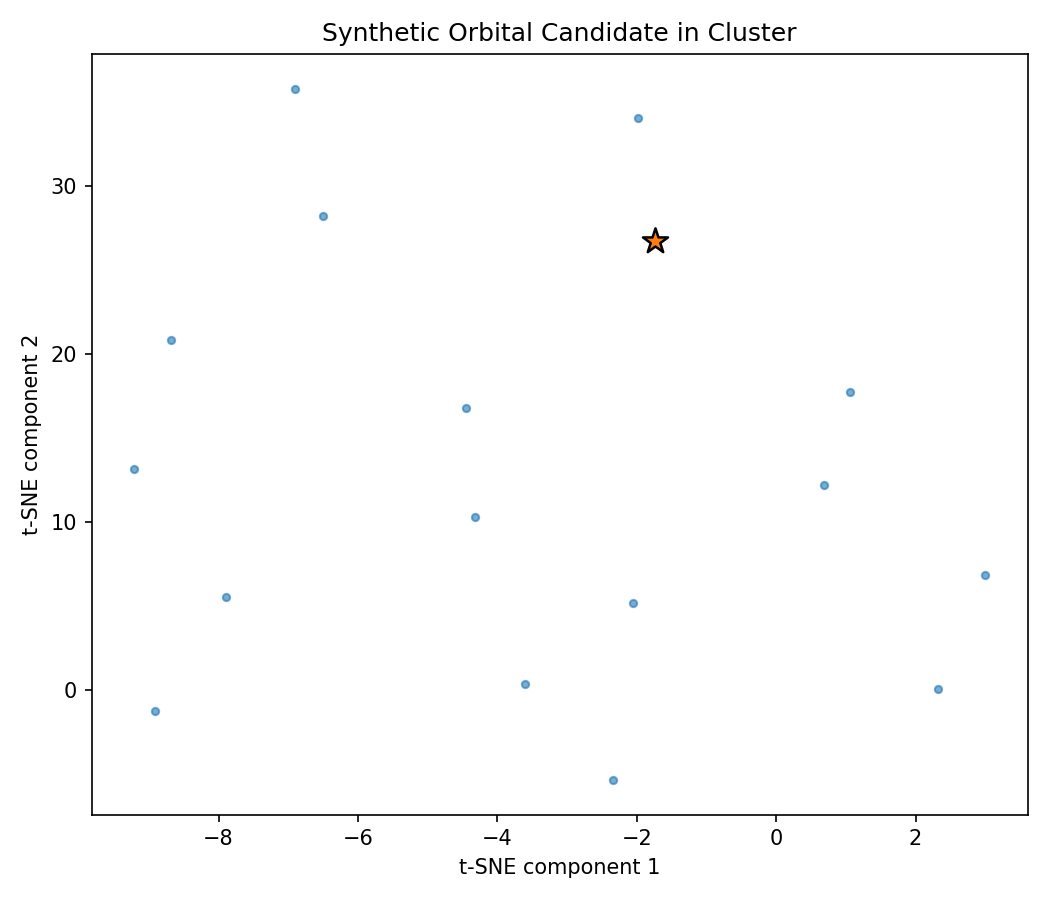
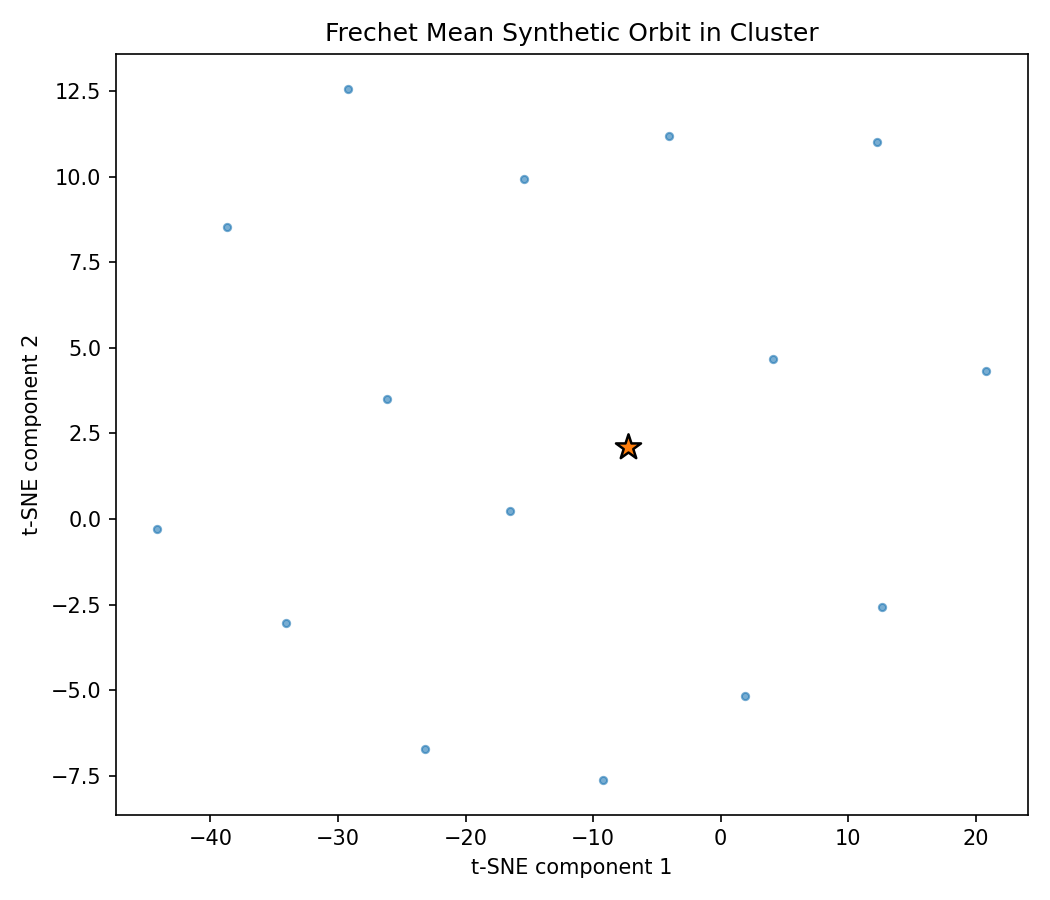
Small corrections. Now need to verify performance over cluster size range

diff --git a/data/tsne_tsne_avg_synthOrb_cluster.html b/data/tsne_tsne_avg_synthOrb_cluster.html
@@ -2,6 +2,6 @@
 <head><meta charset="utf-8" /></head>
 <body>
     <div>                        <script type="text/javascript">window.PlotlyConfig = {MathJaxConfig: 'local'};</script>
-        <script charset="utf-8" src="https://cdn.plot.ly/plotly-3.3.0.min.js" integrity="sha256-bO3dS6yCpk9aK4gUpNELtCiDeSYvGYnK7jFI58NQnHI=" crossorigin="anonymous"></script>                <div id="fe05d175-8f8f-4b71-a361-d76a9453f821" class="plotly-graph-div" style="height:650px; width:800px;"></div>            <script type="text/javascript">                window.PLOTLYENV=window.PLOTLYENV || {};                                if (document.getElementById("fe05d175-8f8f-4b71-a361-d76a9453f821")) {                    Plotly.newPlot(                        "fe05d175-8f8f-4b71-a361-d76a9453f821",                        [{"hovertemplate":"SatNo: %{text}\u003cextra\u003e\u003c\u002fextra\u003e","marker":{"color":"rgba(100,100,100,0.6)","opacity":0.7,"size":6},"mode":"markers","name":"Cluster orbits","text":["64790","64791","64793","64795","64797","64798","64799","64800","64804","64806","64809","64810","64811","64813","64814","64815"],"x":{"dtype":"f4","bdata":"vw\u002fdwObIP0A2HP6\u002fs4EOwXK2MD+O6wrBDDUUQItZisAnTxPBfBIWwE17hz8LpQPAlllmwEQW0MCsc\u002fzAWomOwA=="},"y":{"dtype":"f4","bdata":"SDcPQiI920B+TghC6Cuiv2SLQkENuqZBiVAJPEQeJEEaF1JBK4yswL\u002fEjUGHj6VApfeiPviW4UFhHrFALEqGQQ=="},"type":"scatter"},{"hovertemplate":"%{text}\u003cextra\u003e\u003c\u002fextra\u003e","marker":{"color":"crimson","line":{"color":"black","width":2},"size":18,"symbol":"star"},"mode":"markers","name":"Synthetic void orbit","text":["Synthetic orbit (99999)"],"x":{"dtype":"f4","bdata":"17fevw=="},"y":{"dtype":"f4","bdata":"SKTVQQ=="},"type":"scatter"}],                        {"template":{"data":{"barpolar":[{"marker":{"line":{"color":"white","width":0.5},"pattern":{"fillmode":"overlay","size":10,"solidity":0.2}},"type":"barpolar"}],"bar":[{"error_x":{"color":"#2a3f5f"},"error_y":{"color":"#2a3f5f"},"marker":{"line":{"color":"white","width":0.5},"pattern":{"fillmode":"overlay","size":10,"solidity":0.2}},"type":"bar"}],"carpet":[{"aaxis":{"endlinecolor":"#2a3f5f","gridcolor":"#C8D4E3","linecolor":"#C8D4E3","minorgridcolor":"#C8D4E3","startlinecolor":"#2a3f5f"},"baxis":{"endlinecolor":"#2a3f5f","gridcolor":"#C8D4E3","linecolor":"#C8D4E3","minorgridcolor":"#C8D4E3","startlinecolor":"#2a3f5f"},"type":"carpet"}],"choropleth":[{"colorbar":{"outlinewidth":0,"ticks":""},"type":"choropleth"}],"contourcarpet":[{"colorbar":{"outlinewidth":0,"ticks":""},"type":"contourcarpet"}],"contour":[{"colorbar":{"outlinewidth":0,"ticks":""},"colorscale":[[0.0,"#0d0887"],[0.1111111111111111,"#46039f"],[0.2222222222222222,"#7201a8"],[0.3333333333333333,"#9c179e"],[0.4444444444444444,"#bd3786"],[0.5555555555555556,"#d8576b"],[0.6666666666666666,"#ed7953"],[0.7777777777777778,"#fb9f3a"],[0.8888888888888888,"#fdca26"],[1.0,"#f0f921"]],"type":"contour"}],"heatmap":[{"colorbar":{"outlinewidth":0,"ticks":""},"colorscale":[[0.0,"#0d0887"],[0.1111111111111111,"#46039f"],[0.2222222222222222,"#7201a8"],[0.3333333333333333,"#9c179e"],[0.4444444444444444,"#bd3786"],[0.5555555555555556,"#d8576b"],[0.6666666666666666,"#ed7953"],[0.7777777777777778,"#fb9f3a"],[0.8888888888888888,"#fdca26"],[1.0,"#f0f921"]],"type":"heatmap"}],"histogram2dcontour":[{"colorbar":{"outlinewidth":0,"ticks":""},"colorscale":[[0.0,"#0d0887"],[0.1111111111111111,"#46039f"],[0.2222222222222222,"#7201a8"],[0.3333333333333333,"#9c179e"],[0.4444444444444444,"#bd3786"],[0.5555555555555556,"#d8576b"],[0.6666666666666666,"#ed7953"],[0.7777777777777778,"#fb9f3a"],[0.8888888888888888,"#fdca26"],[1.0,"#f0f921"]],"type":"histogram2dcontour"}],"histogram2d":[{"colorbar":{"outlinewidth":0,"ticks":""},"colorscale":[[0.0,"#0d0887"],[0.1111111111111111,"#46039f"],[0.2222222222222222,"#7201a8"],[0.3333333333333333,"#9c179e"],[0.4444444444444444,"#bd3786"],[0.5555555555555556,"#d8576b"],[0.6666666666666666,"#ed7953"],[0.7777777777777778,"#fb9f3a"],[0.8888888888888888,"#fdca26"],[1.0,"#f0f921"]],"type":"histogram2d"}],"histogram":[{"marker":{"pattern":{"fillmode":"overlay","size":10,"solidity":0.2}},"type":"histogram"}],"mesh3d":[{"colorbar":{"outlinewidth":0,"ticks":""},"type":"mesh3d"}],"parcoords":[{"line":{"colorbar":{"outlinewidth":0,"ticks":""}},"type":"parcoords"}],"pie":[{"automargin":true,"type":"pie"}],"scatter3d":[{"line":{"colorbar":{"outlinewidth":0,"ticks":""}},"marker":{"colorbar":{"outlinewidth":0,"ticks":""}},"type":"scatter3d"}],"scattercarpet":[{"marker":{"colorbar":{"outlinewidth":0,"ticks":""}},"type":"scattercarpet"}],"scattergeo":[{"marker":{"colorbar":{"outlinewidth":0,"ticks":""}},"type":"scattergeo"}],"scattergl":[{"marker":{"colorbar":{"outlinewidth":0,"ticks":""}},"type":"scattergl"}],"scattermapbox":[{"marker":{"colorbar":{"outlinewidth":0,"ticks":""}},"type":"scattermapbox"}],"scattermap":[{"marker":{"colorbar":{"outlinewidth":0,"ticks":""}},"type":"scattermap"}],"scatterpolargl":[{"marker":{"colorbar":{"outlinewidth":0,"ticks":""}},"type":"scatterpolargl"}],"scatterpolar":[{"marker":{"colorbar":{"outlinewidth":0,"ticks":""}},"type":"scatterpolar"}],"scatter":[{"fillpattern":{"fillmode":"overlay","size":10,"solidity":0.2},"type":"scatter"}],"scatterternary":[{"marker":{"colorbar":{"outlinewidth":0,"ticks":""}},"type":"scatterternary"}],"surface":[{"colorbar":{"outlinewidth":0,"ticks":""},"colorscale":[[0.0,"#0d0887"],[0.1111111111111111,"#46039f"],[0.2222222222222222,"#7201a8"],[0.3333333333333333,"#9c179e"],[0.4444444444444444,"#bd3786"],[0.5555555555555556,"#d8576b"],[0.6666666666666666,"#ed7953"],[0.7777777777777778,"#fb9f3a"],[0.8888888888888888,"#fdca26"],[1.0,"#f0f921"]],"type":"surface"}],"table":[{"cells":{"fill":{"color":"#EBF0F8"},"line":{"color":"white"}},"header":{"fill":{"color":"#C8D4E3"},"line":{"color":"white"}},"type":"table"}]},"layout":{"annotationdefaults":{"arrowcolor":"#2a3f5f","arrowhead":0,"arrowwidth":1},"autotypenumbers":"strict","coloraxis":{"colorbar":{"outlinewidth":0,"ticks":""}},"colorscale":{"diverging":[[0,"#8e0152"],[0.1,"#c51b7d"],[0.2,"#de77ae"],[0.3,"#f1b6da"],[0.4,"#fde0ef"],[0.5,"#f7f7f7"],[0.6,"#e6f5d0"],[0.7,"#b8e186"],[0.8,"#7fbc41"],[0.9,"#4d9221"],[1,"#276419"]],"sequential":[[0.0,"#0d0887"],[0.1111111111111111,"#46039f"],[0.2222222222222222,"#7201a8"],[0.3333333333333333,"#9c179e"],[0.4444444444444444,"#bd3786"],[0.5555555555555556,"#d8576b"],[0.6666666666666666,"#ed7953"],[0.7777777777777778,"#fb9f3a"],[0.8888888888888888,"#fdca26"],[1.0,"#f0f921"]],"sequentialminus":[[0.0,"#0d0887"],[0.1111111111111111,"#46039f"],[0.2222222222222222,"#7201a8"],[0.3333333333333333,"#9c179e"],[0.4444444444444444,"#bd3786"],[0.5555555555555556,"#d8576b"],[0.6666666666666666,"#ed7953"],[0.7777777777777778,"#fb9f3a"],[0.8888888888888888,"#fdca26"],[1.0,"#f0f921"]]},"colorway":["#636efa","#EF553B","#00cc96","#ab63fa","#FFA15A","#19d3f3","#FF6692","#B6E880","#FF97FF","#FECB52"],"font":{"color":"#2a3f5f"},"geo":{"bgcolor":"white","lakecolor":"white","landcolor":"white","showlakes":true,"showland":true,"subunitcolor":"#C8D4E3"},"hoverlabel":{"align":"left"},"hovermode":"closest","mapbox":{"style":"light"},"paper_bgcolor":"white","plot_bgcolor":"white","polar":{"angularaxis":{"gridcolor":"#EBF0F8","linecolor":"#EBF0F8","ticks":""},"bgcolor":"white","radialaxis":{"gridcolor":"#EBF0F8","linecolor":"#EBF0F8","ticks":""}},"scene":{"xaxis":{"backgroundcolor":"white","gridcolor":"#DFE8F3","gridwidth":2,"linecolor":"#EBF0F8","showbackground":true,"ticks":"","zerolinecolor":"#EBF0F8"},"yaxis":{"backgroundcolor":"white","gridcolor":"#DFE8F3","gridwidth":2,"linecolor":"#EBF0F8","showbackground":true,"ticks":"","zerolinecolor":"#EBF0F8"},"zaxis":{"backgroundcolor":"white","gridcolor":"#DFE8F3","gridwidth":2,"linecolor":"#EBF0F8","showbackground":true,"ticks":"","zerolinecolor":"#EBF0F8"}},"shapedefaults":{"line":{"color":"#2a3f5f"}},"ternary":{"aaxis":{"gridcolor":"#DFE8F3","linecolor":"#A2B1C6","ticks":""},"baxis":{"gridcolor":"#DFE8F3","linecolor":"#A2B1C6","ticks":""},"bgcolor":"white","caxis":{"gridcolor":"#DFE8F3","linecolor":"#A2B1C6","ticks":""}},"title":{"x":0.05},"xaxis":{"automargin":true,"gridcolor":"#EBF0F8","linecolor":"#EBF0F8","ticks":"","title":{"standoff":15},"zerolinecolor":"#EBF0F8","zerolinewidth":2},"yaxis":{"automargin":true,"gridcolor":"#EBF0F8","linecolor":"#EBF0F8","ticks":"","title":{"standoff":15},"zerolinecolor":"#EBF0F8","zerolinewidth":2}}},"legend":{"itemsizing":"constant"},"title":{"text":"t-SNE diagnostic: cluster vs synthetic void orbit"},"xaxis":{"title":{"text":"t-SNE component 1"}},"yaxis":{"title":{"text":"t-SNE component 2"}},"width":800,"height":650},                        {"responsive": true}                    )                };            </script>        </div>
[1 lines of base64/hex data omitted]
 </body>
 </html>

diff --git a/unique_orbits/uct_fitting/orbit_finder/get_optimum_orbit.py b/unique_orbits/uct_fitting/orbit_finder/get_optimum_orbit.py
@@ -171,14 +171,14 @@ def get_optimum_orbit(df):
         
     #     return np.mean(initial_dists), np.mean(optimized_dists)
 
-    avg_initial, avg_optimized = verify_orbit(initial_keplerian, optimum_keplerian, all_keplers)
-    print(f"Initial candidate average distance: {avg_initial:.6f}")
-    print(f"Optimized orbit average distance: {avg_optimized:.6f}")
+    # avg_initial, avg_optimized = verify_orbit(initial_keplerian, optimum_keplerian, all_keplers)
+    # print(f"Initial candidate average distance: {avg_initial:.6f}")
+    # print(f"Optimized orbit average distance: {avg_optimized:.6f}")
     
-    if avg_optimized < avg_initial:
-        print("Verification: Optimization successful - optimized orbit has a lower average distance.")
-    else:
-        print("Verification: Optimization unsuccessful - no improvement detected.")
+    # if avg_optimized < avg_initial:
+    #     print("Verification: Optimization successful - optimized orbit has a lower average distance.")
+    # else:
+    #     print("Verification: Optimization unsuccessful - no improvement detected.")
 
     # Convert to TLE
     avg_epoch = calculate_average_epoch(df)
@@ -207,7 +207,7 @@ def get_optimum_orbit(df):
     optimum_df = pd.DataFrame([optimum_orbit_entry])
     df = pd.concat([df, optimum_df], ignore_index=True)
 
-    test_orbit(df)
+    # test_orbit(df)
     print("Optimized orbit added to the TLE data.")
     return df
      
@@ -417,7 +417,7 @@ def get_maximally_separated_orbit(df, n_samples=5000, return_diagnostics=True):
 
     df = pd.concat([df, pd.DataFrame([void_entry])], ignore_index=True)
 
-    test_orbit(df)
+    # test_orbit(df)
     
     if return_diagnostics:
         diagnostics = evaluate_void_orbit(x_star, all_keplers)

diff --git a/unique_orbits/uct_fitting/main.py b/unique_orbits/uct_fitting/main.py
@@ -69,7 +69,7 @@ class UCTFitting:
     
         return df
 
-    def filter_clusters(self, df: pd.DataFrame, target_size: int = 16) -> pd.DataFrame:
+    def filter_clusters(self, df: pd.DataFrame, target_size: int = 15) -> pd.DataFrame:
         labels = df['label'].to_numpy()
         unique_labels, label_counts = np.unique(labels, return_counts=True)
         cluster_counts = dict(zip(unique_labels, label_counts))
@@ -240,7 +240,7 @@ class UCTFitting:
             zorder=5
         )
 
-        plt.title("Synthetic Orbital Candidate in Cluster")
+        plt.title("Frechet Mean Synthetic Orbit in Cluster")
         plt.xlabel("t-SNE component 1")
         plt.ylabel("t-SNE component 2")
         plt.tight_layout()
